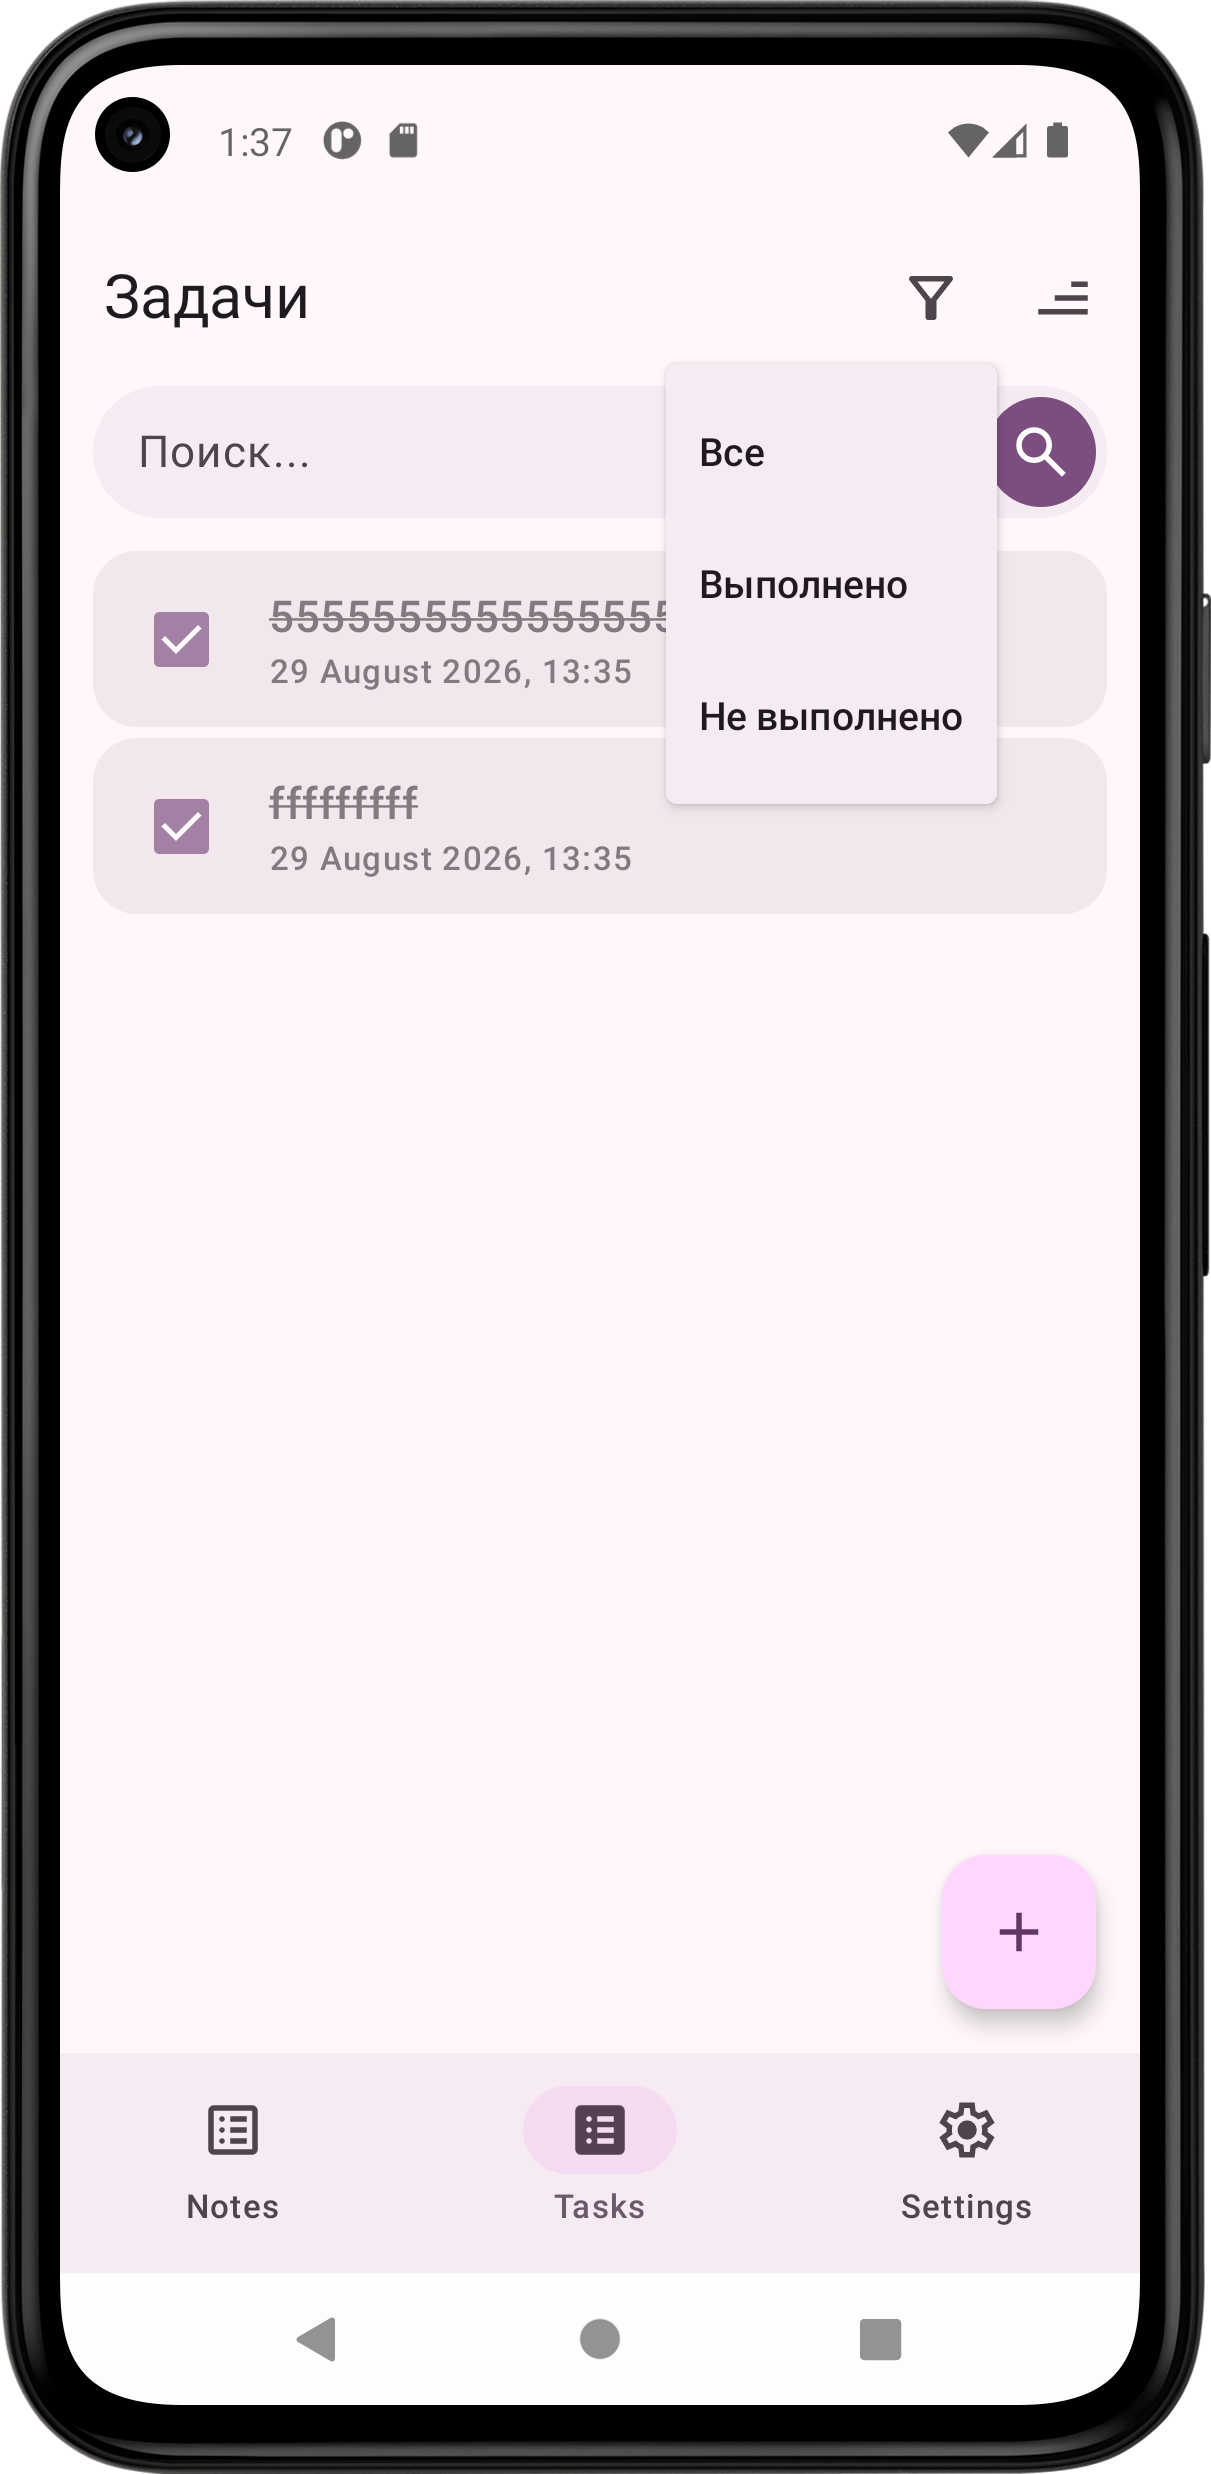
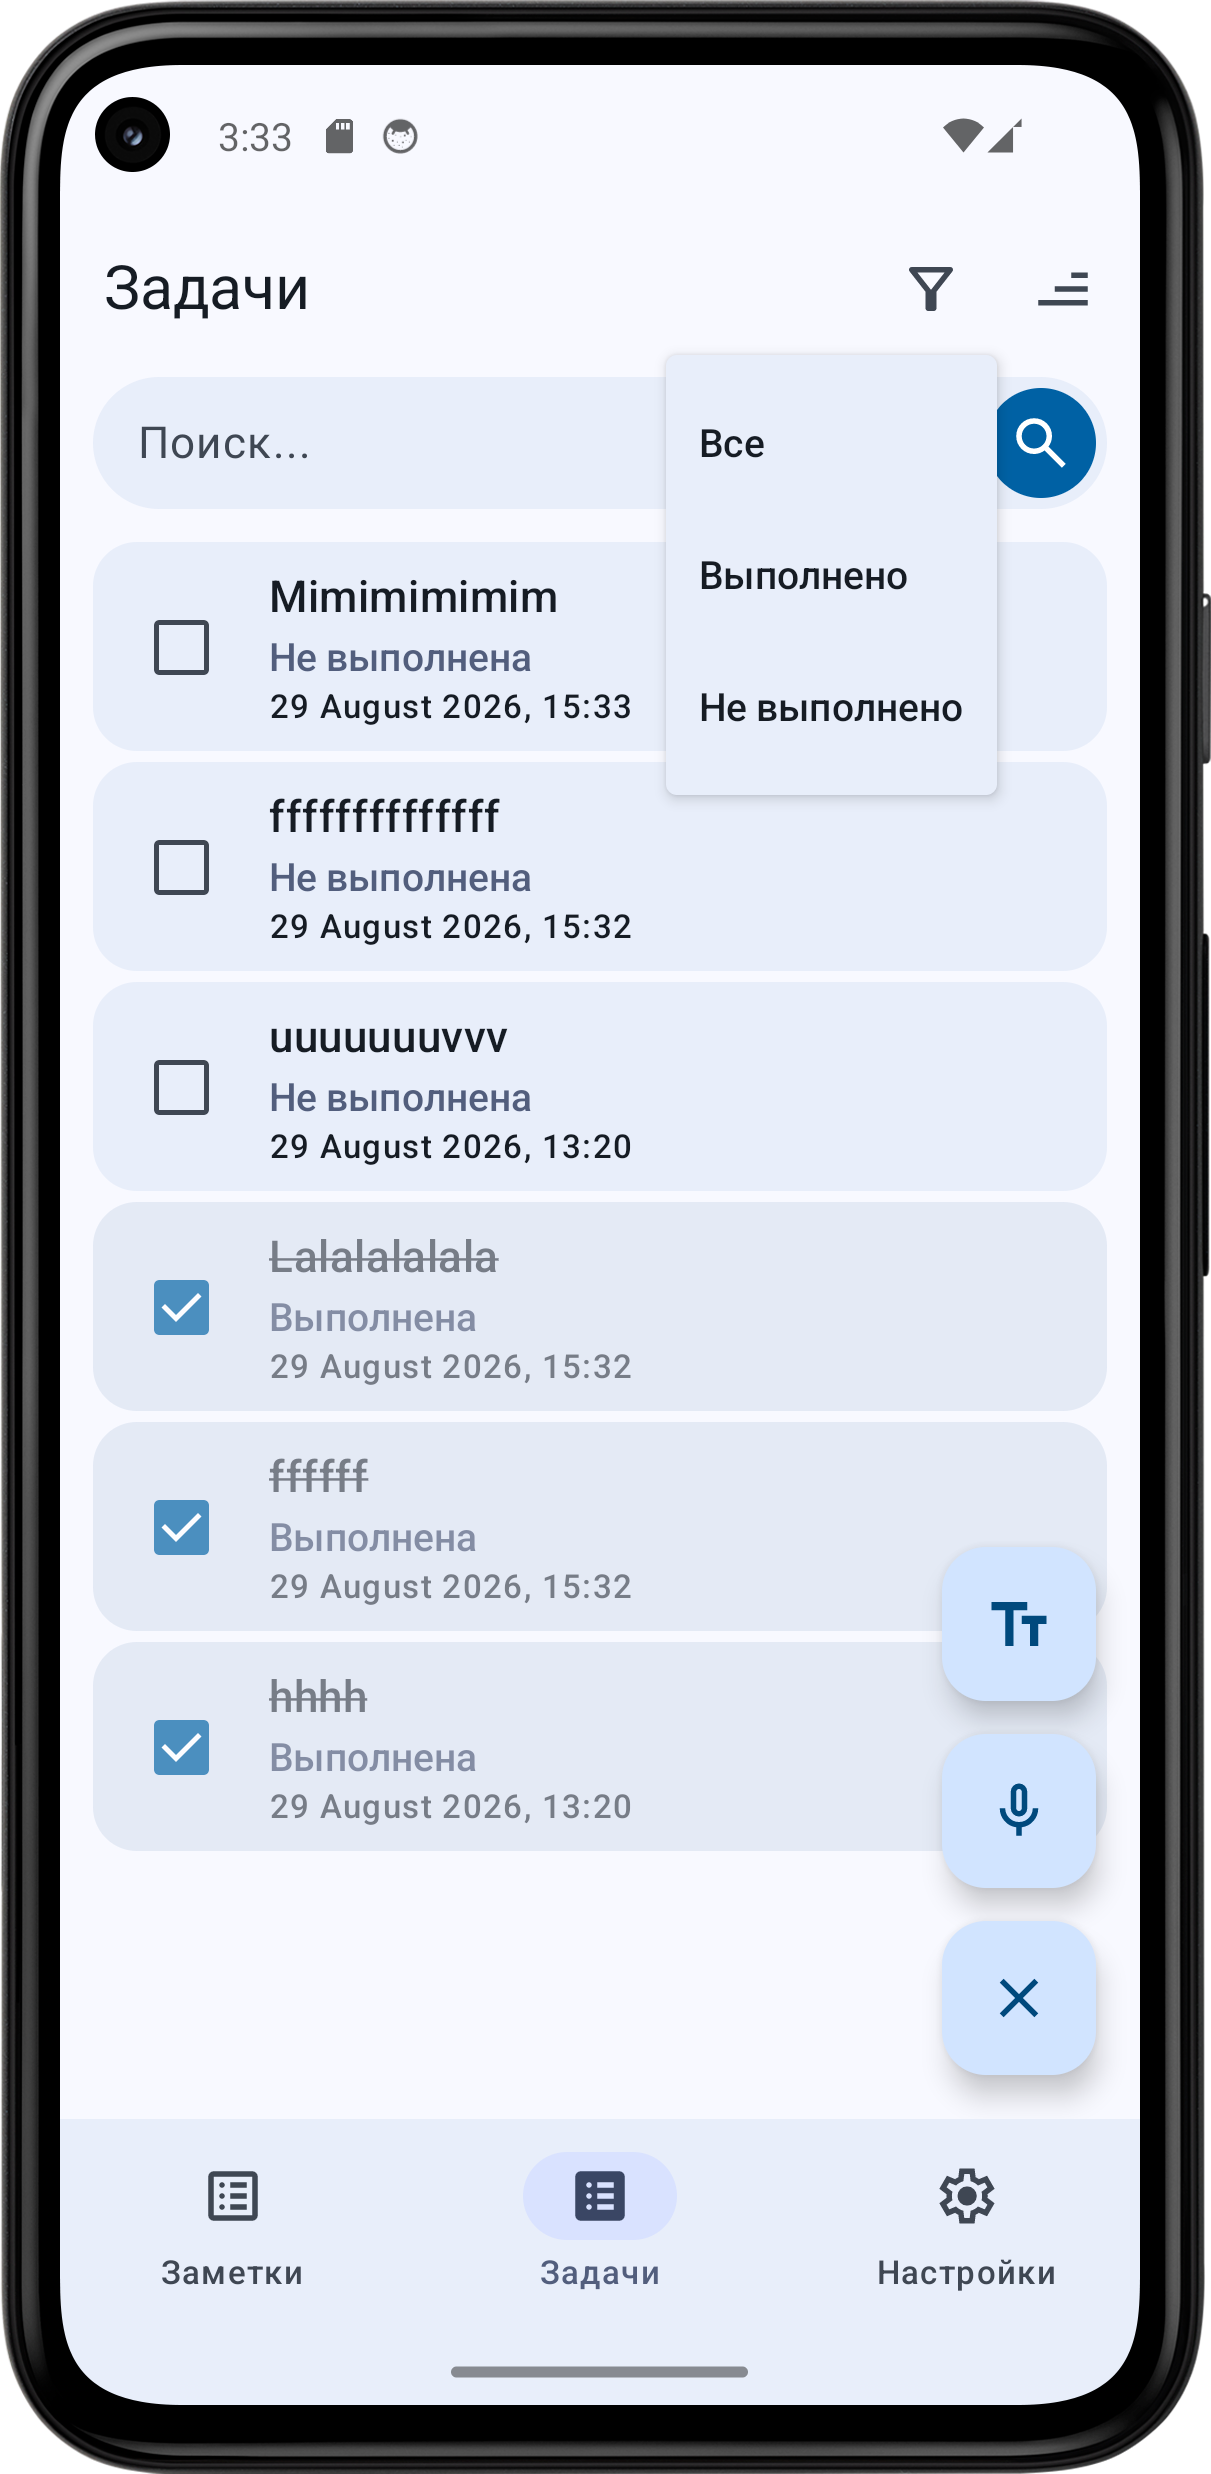
правки...

diff --git a/feat/notes/src/main/java/com/dertefter/notes/presentation/NotesScreen.kt b/feat/notes/src/main/java/com/dertefter/notes/presentation/NotesScreen.kt
@@ -12,6 +12,7 @@ import androidx.compose.foundation.layout.fillMaxWidth
 import androidx.compose.foundation.layout.padding
 import androidx.compose.foundation.lazy.LazyColumn
 import androidx.compose.foundation.lazy.items
+import androidx.compose.material3.AlertDialog
 import androidx.compose.material3.DropdownMenu
 import androidx.compose.material3.DropdownMenuItem
 import androidx.compose.material3.ExperimentalMaterial3Api
@@ -21,6 +22,7 @@ import androidx.compose.material3.MaterialTheme
 import androidx.compose.material3.Icon
 import androidx.compose.material3.Scaffold
 import androidx.compose.material3.Text
+import androidx.compose.material3.TextButton
 import androidx.compose.material3.TopAppBar
 import androidx.compose.material3.TopAppBarDefaults
 import androidx.compose.material3.rememberTopAppBarState
@@ -44,6 +46,9 @@ import com.dertefter.notes.dto.NoteDto
 import com.dertefter.notes.dto.SortOrder
 import com.dertefter.notes.presentation.component.NoteItem
 import java.time.LocalDateTime
+import android.content.Context
+import android.content.Intent
+import androidx.compose.ui.platform.LocalContext
 
 @OptIn(ExperimentalMaterial3Api::class, ExperimentalFoundationApi::class)
 @Composable
@@ -51,6 +56,7 @@ fun NotesScreen(
     onEvent: (Event) -> Unit,
     uiState: UiState
 ) {
+    val context = LocalContext.current
 
     LaunchedEffect(uiState.notes) {
         if (uiState.notes.isEmpty()){
@@ -61,6 +67,7 @@ fun NotesScreen(
     val topBarState = rememberTopAppBarState()
 
     var showSortMenu by remember { mutableStateOf(false) }
+    var noteIdToDelete by remember { mutableStateOf<Long?>(null) }
     val scrollBehavior = TopAppBarDefaults.pinnedScrollBehavior(state = topBarState)
 
 
@@ -171,12 +178,15 @@ fun NotesScreen(
                     note = note,
                     isDeleteMode = uiState.isDeleteMode,
                     onDeleteClick = {
-                        onEvent(Event.DeleteNote(note.id))
+                        noteIdToDelete = note.id
                     },
                     onClick = {
                         onEvent(
                             Event.OpenNoteDetail(note.id)
                         )
+                    },
+                    onShareClick = {
+                        shareNote(context, note.title, note.text)
                     }
                 )
             }
@@ -192,6 +202,28 @@ fun NotesScreen(
                 )
             }
 
+        }
+
+        if (noteIdToDelete != null) {
+            AlertDialog(
+                onDismissRequest = { noteIdToDelete = null },
+                title = { Text("Точно удалить?") },
+                confirmButton = {
+                    TextButton(
+                        onClick = {
+                            noteIdToDelete?.let { onEvent(Event.DeleteNote(it)) }
+                            noteIdToDelete = null
+                        }
+                    ) {
+                        Text("Да")
+                    }
+                },
+                dismissButton = {
+                    TextButton(onClick = { noteIdToDelete = null }) {
+                        Text("Нет")
+                    }
+                }
+            )
         }
 
     }
@@ -222,4 +254,14 @@ fun NotesScreenPreview() {
             )
 
     }
+}
+
+private fun shareNote(context: Context, title: String, text: String) {
+    val sendIntent: Intent = Intent().apply {
+        action = Intent.ACTION_SEND
+        putExtra(Intent.EXTRA_TEXT, "$title\n\n$text")
+        type = "text/plain"
+    }
+    val shareIntent = Intent.createChooser(sendIntent, null)
+    context.startActivity(shareIntent)
 }

diff --git a/core/design/src/main/java/com/dertefter/design/components/search/TheSearchBar.kt b/core/design/src/main/java/com/dertefter/design/components/search/TheSearchBar.kt
@@ -6,6 +6,8 @@ import androidx.compose.foundation.layout.fillMaxWidth
 import androidx.compose.foundation.layout.padding
 import androidx.compose.foundation.shape.CircleShape
 import androidx.compose.foundation.text.BasicTextField
+import androidx.compose.foundation.text.KeyboardActions
+import androidx.compose.foundation.text.KeyboardOptions
 import androidx.compose.material3.FilledIconButton
 import androidx.compose.material3.Icon
 import androidx.compose.material3.MaterialTheme
@@ -16,6 +18,7 @@ import androidx.compose.ui.Modifier
 import androidx.compose.ui.draw.clip
 import androidx.compose.ui.draw.shadow
 import androidx.compose.ui.graphics.SolidColor
+import androidx.compose.ui.text.input.ImeAction
 import androidx.compose.ui.tooling.preview.Preview
 import androidx.compose.ui.unit.Dp
 import androidx.compose.ui.unit.dp
@@ -53,6 +56,8 @@ fun TheSearchBar(
             singleLine = true,
             textStyle = MaterialTheme.typography.bodyLarge.copy(color = MaterialTheme.colorScheme.onSurface),
             cursorBrush = SolidColor(MaterialTheme.colorScheme.primary),
+            keyboardOptions = KeyboardOptions(imeAction = ImeAction.Search),
+            keyboardActions = KeyboardActions(onSearch = { onSearch() }),
             decorationBox = { innerTextField ->
                 if (query.isEmpty()) {
                     Text(

diff --git a/feat/note_editor/src/main/java/com/dertefter/note_editor/presentation/NoteEditorScreen.kt b/feat/note_editor/src/main/java/com/dertefter/note_editor/presentation/NoteEditorScreen.kt
@@ -150,6 +150,14 @@ fun NoteEditorScreen(
                             contentDescription = stringResource(R.string.note_editor_back_button_description)
                         )
                     }
+                },
+                actions = {
+                    IconButton(onClick = { shareNote(context, uiState.title, uiState.text) }) {
+                        Icon(
+                            imageVector = AppIcons.Share,
+                            contentDescription = stringResource(R.string.note_editor_share_button_description)
+                        )
+                    }
                 }
             )
         },
@@ -288,6 +296,16 @@ private fun getTmpFileUri(context: Context): Uri {
     }
 
     return FileProvider.getUriForFile(context, "${context.packageName}.fileprovider", tmpFile)
+}
+
+private fun shareNote(context: Context, title: String, text: String) {
+    val sendIntent: Intent = Intent().apply {
+        action = Intent.ACTION_SEND
+        putExtra(Intent.EXTRA_TEXT, "$title\n\n$text")
+        type = "text/plain"
+    }
+    val shareIntent = Intent.createChooser(sendIntent, null)
+    context.startActivity(shareIntent)
 }
 
 @Preview

diff --git a/core/data/ai/src/main/java/com/dertefter/data/ai/repository/AiRepositoryImpl.kt b/core/data/ai/src/main/java/com/dertefter/data/ai/repository/AiRepositoryImpl.kt
@@ -31,15 +31,15 @@ class AiRepositoryImpl @Inject constructor(
     override suspend fun generateTask(input: String): Result<String> = runCatching {
         val requestText = """
             Ты должен составить короткий текст задачи на основе того, что сказал пользователь.
-             Пользователь сказал: $input
+            Например, пользователь говорит: "создай задачу покормить кота", а ты пишешь - "Покормить кота"
         """.trimIndent()
 
         val token = getValidToken()
         val request = ChatRequest(
-            model = "GigaChat",
+            model = "GigaChat-2-Max",
             messages = listOf(
-                Message(role = "system", content = "Ты — полезный ассистент."),
-                Message(role = "user", content = requestText)
+                Message(role = "system", content = requestText),
+                Message(role = "user", content = input)
             )
         )
         val response = aiApi.chatCompletions("Bearer $token", request)

diff --git a/feat/notes/src/main/java/com/dertefter/notes/presentation/component/NoteItem.kt b/feat/notes/src/main/java/com/dertefter/notes/presentation/component/NoteItem.kt
@@ -37,6 +37,7 @@ fun NoteItem(
     modifier: Modifier = Modifier,
     onClick: () -> Unit = {},
     onDeleteClick: () -> Unit = {},
+    onShareClick: () -> Unit = {},
     isDeleteMode: Boolean = false,
     note: NoteDto
 ) {
@@ -95,6 +96,23 @@ fun NoteItem(
                     }
                 }
             )
+
+            IconButton(
+                modifier = Modifier
+                    .align(Alignment.TopStart)
+                    .padding(4.dp),
+                onClick = onShareClick,
+                enabled = !isDeleteMode,
+                colors = IconButtonDefaults.filledIconButtonColors(
+                    containerColor = MaterialTheme.colorScheme.primary,
+                    contentColor = MaterialTheme.colorScheme.onPrimary
+                )
+            ) {
+                Icon(
+                    imageVector = Icons.Share,
+                    contentDescription = "Поделиться"
+                )
+            }
 
         }
 

diff --git a/app/src/main/java/com/dertefter/avito2026autumn/presentation/BottomNavItem.kt b/app/src/main/java/com/dertefter/avito2026autumn/presentation/BottomNavItem.kt
@@ -13,21 +13,21 @@ sealed class BottomNavItem(
 ) {
     data object Notes : BottomNavItem(
         graphRoute = Routes.NotesGraph,
-        label = "Notes",
+        label = "Заметки",
         unselectedIcon = { Icons.ListAlt },
         selectedIcon = { Icons.ListAltFilled }
     )
 
     data object Tasks : BottomNavItem(
         graphRoute = Routes.TasksGraph,
-        label = "Tasks",
+        label = "Задачи",
         unselectedIcon = { Icons.ListAlt },
         selectedIcon = { Icons.ListAltFilled }
     )
 
     data object Settings : BottomNavItem(
         graphRoute = Routes.SettingsGraph,
-        label = "Settings",
+        label = "Настройки",
         unselectedIcon = { Icons.Settings },
         selectedIcon = { Icons.SettingsFilled }
     )

diff --git a/core/design/src/main/java/com/dertefter/design/theme/TheTheme.kt b/core/design/src/main/java/com/dertefter/design/theme/TheTheme.kt
@@ -8,6 +8,7 @@ import androidx.compose.runtime.SideEffect
 import androidx.compose.ui.graphics.Color
 import androidx.compose.ui.platform.LocalView
 import androidx.core.view.WindowCompat
+import com.materialkolor.PaletteStyle
 import com.materialkolor.rememberDynamicColorScheme
 
 @Composable
@@ -27,7 +28,11 @@ fun TheTheme(
         }
     }
 
-    val colorScheme = rememberDynamicColorScheme(seedColor = seedColor, isDark = darkTheme)
+    val colorScheme = rememberDynamicColorScheme(
+        seedColor = seedColor,
+        isDark = darkTheme,
+        style = PaletteStyle.Vibrant
+    )
 
     MaterialTheme(
         colorScheme = colorScheme,

diff --git a/feat/tasks/src/main/java/com/dertefter/tasks/presentation/TasksViewModel.kt b/feat/tasks/src/main/java/com/dertefter/tasks/presentation/TasksViewModel.kt
@@ -1,5 +1,6 @@
 package com.dertefter.tasks.presentation
 
+import android.util.Log
 import androidx.lifecycle.ViewModel
 import androidx.lifecycle.viewModelScope
 import com.dertefter.data.ai.repository.AiRepository
@@ -148,6 +149,7 @@ class TasksViewModel @Inject constructor(
                     _newTaskTitle.value = generatedTitle
                 }
                 .onFailure {
+                    Log.e("zzzzzzzzzzzz", it.stackTraceToString())
                     _generationStatus.value = GenerationStatus.FAILED
                 }
         }

diff --git a/feat/tasks/src/main/java/com/dertefter/tasks/presentation/component/TaskItem.kt b/feat/tasks/src/main/java/com/dertefter/tasks/presentation/component/TaskItem.kt
@@ -90,6 +90,15 @@ fun TaskItem(
             )
 
             Text(
+                text = if (task.isCompleted) "Выполнена" else "Не выполнена",
+                style = MaterialTheme.typography.labelLarge,
+                maxLines = 1,
+                overflow = TextOverflow.Ellipsis,
+                color = MaterialTheme.colorScheme.secondary
+            )
+
+
+            Text(
                 text = formattedDate,
                 style = MaterialTheme.typography.labelMedium,
                 maxLines = 1,

diff --git a/core/design/src/main/java/com/dertefter/design/icons/Icons.kt b/core/design/src/main/java/com/dertefter/design/icons/Icons.kt
@@ -13,6 +13,8 @@ object Icons {
     val TextFields: ImageVector
         @Composable get() = ImageVector.vectorResource(id = R.drawable.ic_text_fields)
 
+    val Share: ImageVector
+        @Composable get() = ImageVector.vectorResource(id = R.drawable.ic_share)
 
     val Mic: ImageVector
         @Composable get() = ImageVector.vectorResource(id = R.drawable.ic_mic)

diff --git a/README.md b/README.md
@@ -63,10 +63,16 @@
 - Кнопка сброса настроек темы
 
 ## Дополнительно
+
 ### SplashScreen
 - На Android 12+ показывается анимированный SplashScreen (Используется SplashScreen API)
 - На Android 11 показывается статичный SplashScreen
 
+### Поделиться заметкой
+- По нажатию на кнопку отправки можно поделиться заметкой
+
+### Подтверждение удаления
+- Перед удалением заметки показывается Alert Dialog
 
 # Примечания
 
